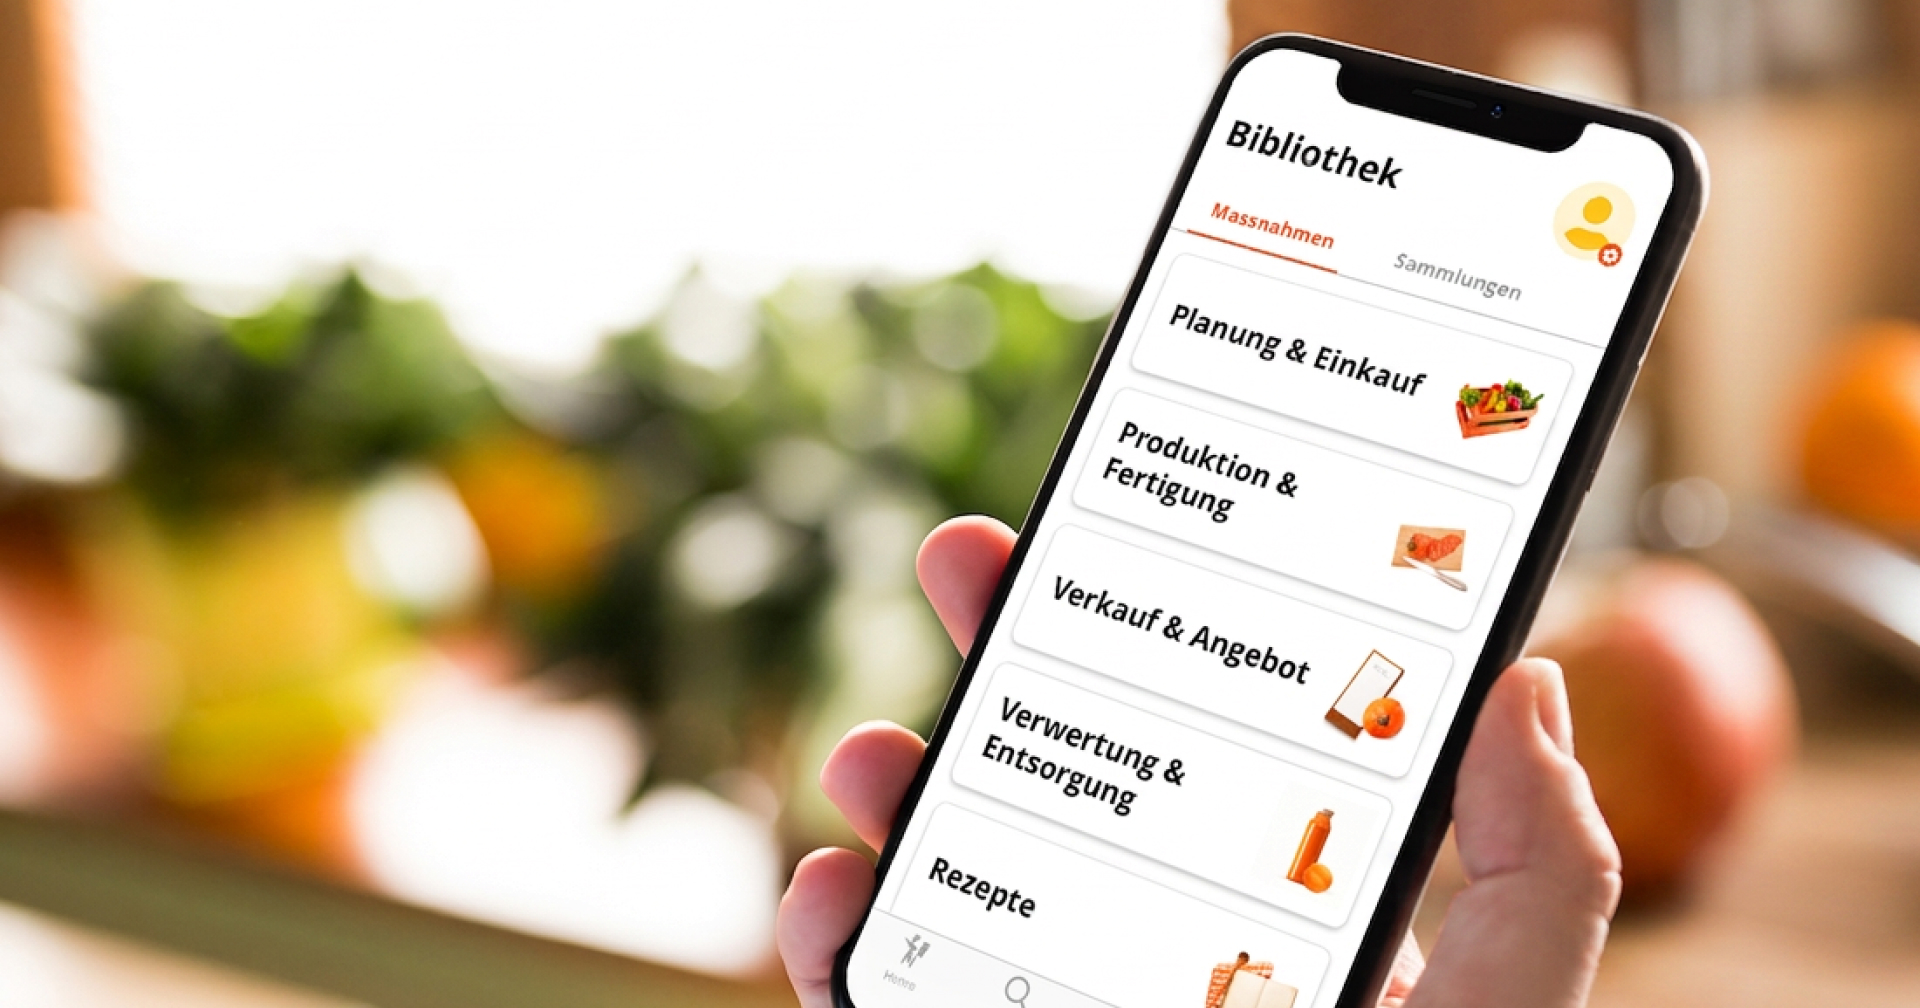
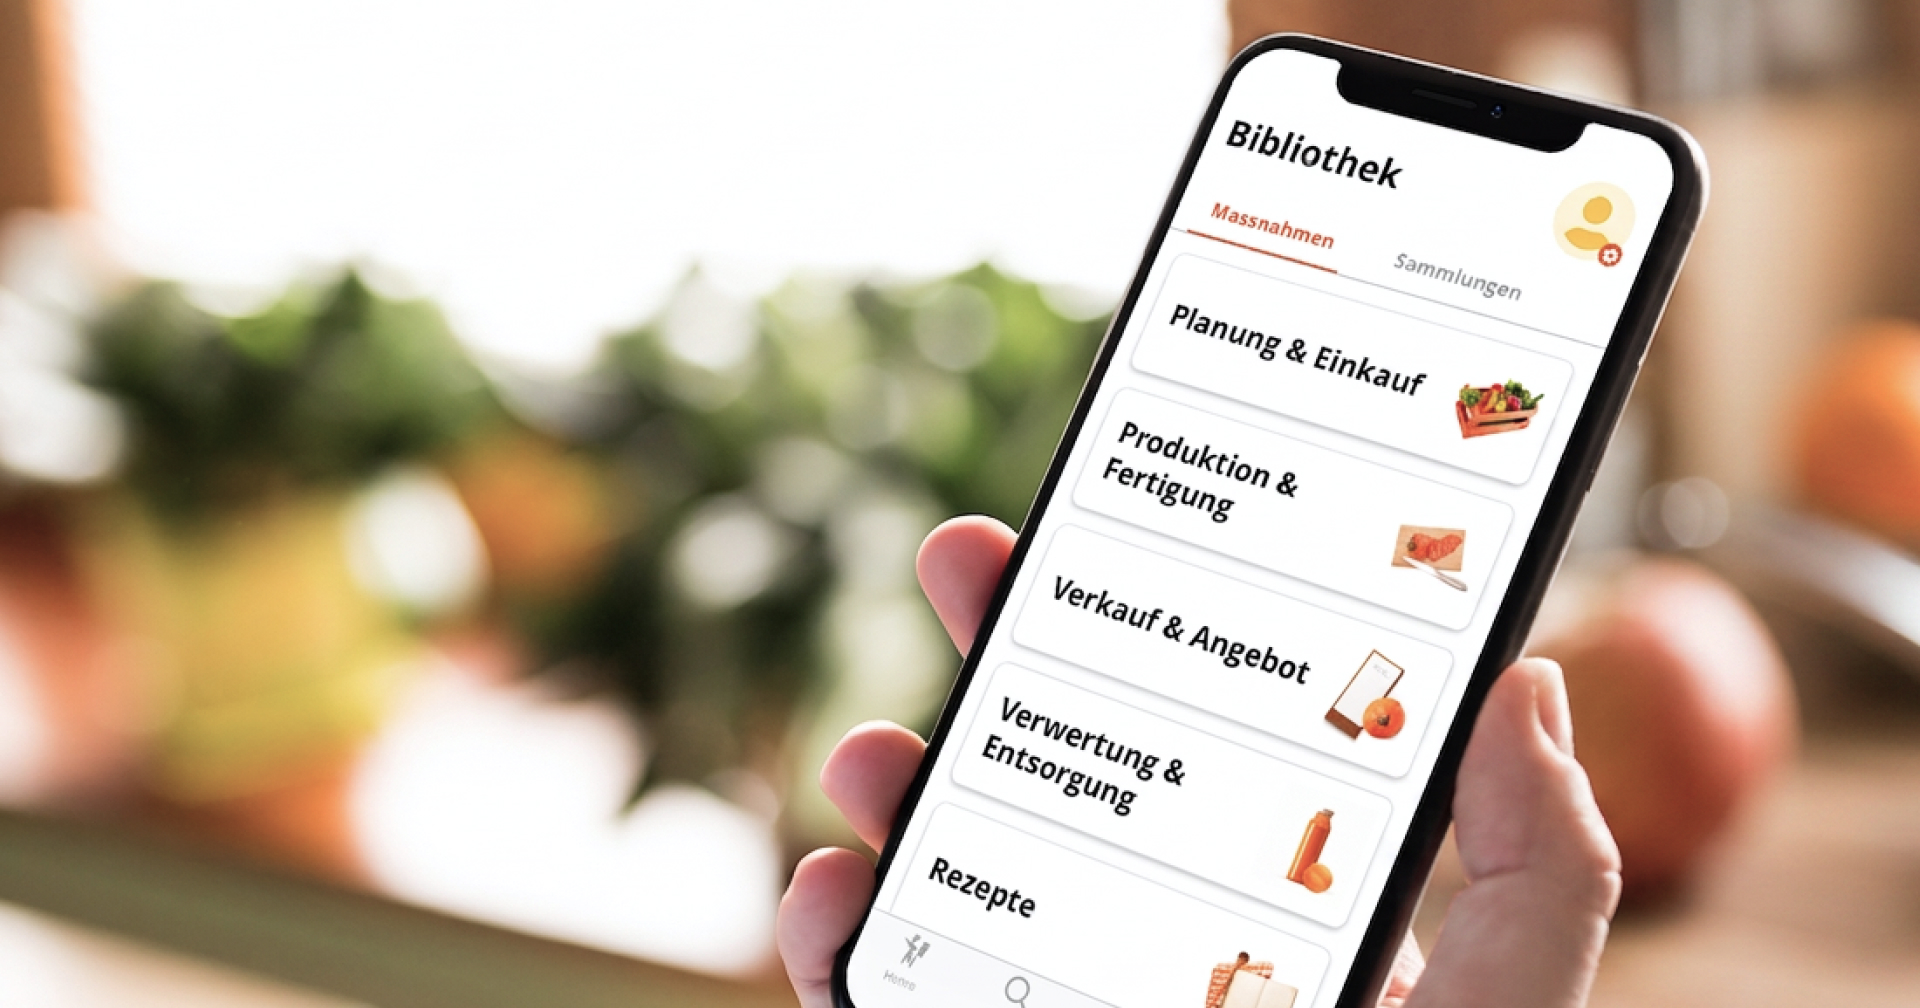
Food Save: re-export FS-00-cover
Re-exported from Figma (page "version 2", frame FS-00-cover-banner,
node 2026:597) as JPG at 1920x1008. Same framing, desaturated image.
Feeds the case header, the home and "more case studies" cards, and the
share image.

diff --git a/HANDOFF.md b/HANDOFF.md
@@ -4,6 +4,8 @@ Last updated: 2026-10-22 (session 35)
 
 **Status at session close (session 35): one commit on `main`, pushed (`48336a3`) and live on migueljss.com: a new brand paragraph closing About's "How I work", a What's new paragraph in the middle of Team Files "Beyond the product", and the Team Files "Company" heading renamed "From TOPDOX to ikuTeam".** No case study has a "Company" section anymore. A follow-up commit (`dd99992`, also live, checked with curl) added serial commas to the About paragraph. Build clean. Details in the session 35 entry below.
 
+**Then, also pushed:** the Food Save cover `FS-00-cover.jpg` re-exported from Figma (a desaturated version of the same frame); see "session 35, continued" below.
+
 **Previous status (session 34): one commit on `main`, pushed (`ae6aa16`) and live on migueljss.com: the Team Files Design execution list replaced by one paragraph, and MFW-03, MFW-04 and MFW-05 re-exported with the "Favourites" tab label.** Miguel approved the faint differences the pixel diff found outside the label boxes. Build clean. Live check with curl (not the browser, to keep Umami clean): both pages return 200, Team Files Design execution has no list markup and goes paragraph then figures, and the MyFoodways page references the new image hashes (`D-6Viy__`, `CUi-0NSz`, `Ddoncsj6`), all 12 of which return 200 with the same sizes as the local build. Details in the session 34 entry below.
 
 **Previous status (session 33): three commits on `main`, pushed (`bdb056e..aba96a1`); GitHub Pages deploys on push: the Food Save "Part of a pair" rewrite with the new FS-06 Waste Tracker figure (`d618cd3`), then copy edits to Food Save and MyFoodways (role line, Company sections removed, new Role paragraphs, Food Save Reflections).** Build clean. Details in the session 33 entries below.
@@ -13,6 +15,18 @@ Last updated: 2026-10-22 (session 35)
 **Previous status (session 32): case study header outcomes, the "active installations" copy fix, an iPhone fix for closing the zoom dialog, and a TF-05 re-export were committed straight to `main` and pushed, at Miguel's request.** GitHub Pages deploys on push. Details in the session 32 entry below.
 
 **Earlier status (session 31): [PR #10](https://github.com/Dgigiu/mj-portfolio/pull/10) (`zoom-tall-images`) merged to `main` as `1794a7d` and live on migueljss.com.** It makes the zoom dialog readable for tall figures (details below). Deploy succeeded; the live Team Files page carries the new markup, size attributes, inline script and CSS (checked with curl, not the browser, to keep the visit out of Umami). The `zoom-tall-images` branch was deleted locally and on origin after the merge. Earlier in session 29, [PR #8](https://github.com/Dgigiu/mj-portfolio/pull/8) (shared folder authentication and narrow views) and [PR #9](https://github.com/Dgigiu/mj-portfolio/pull/9) (TF renumbering) were merged and are live, and their branches deleted. Still open for Miguel: whether TF-05 and TF-06 need larger text inline (readability notes below); this PR addresses the zoomed view, not the inline one.
+
+## What changed in this session (2026-10-22, session 35, continued: Food Save cover)
+
+- **`FS-00-cover.jpg` re-exported** (1920×1008, JPG at scale 1, sRGB, 1.0 MB; Figma `RqT7cSB5meoG2VQu7ggWNo`, page "version 2", frame `FS-00-cover-banner`, node `2026:597`, via the Figma MCP's `download_assets`), overwritten in place in `src/assets/case-studies/food-save/`. The frame holds one image layer (`uaw-food-save-promo2 1`, 2206×1241, offset y −25).
+- **Diff against the previous file (from August 31):** same framing and layout; the phone UI text lines up exactly (near-zero difference on the text edges). The whole image is desaturated: mean saturation 0.295 to 0.224, mean luma 180.4 to 181.1. The change is strongest on the blurred produce in the background (oranges and yellows read more muted) and on the in-app illustrations (crate, cutting board, tomato, bottle); the white screen areas are unchanged. Read as an intentional adjustment in Figma, not a crop or export issue.
+- **Built asset hash changed** (`DP-7bZAt` to `BCVhcpjJ`), so production browsers won't serve a stale copy. No mdx or alt change (alt stays "Food Save project cover").
+- **Surfaces checked:**
+  - Case header: 960w/1440w/1920w srcset, renders at 944×496 at 1440×900.
+  - Home card: 480w/800w/1200w srcset, renders at 456×239 with the 1200w file.
+  - Share image: `og:image` is the 1200×630 webp, the full frame scaled with nothing cropped (byte-identical to the card's 1200w variant).
+  - The "More case studies" grids on Team Files and MyFoodways reference the same new files.
+  - Build clean (0/0/0, 8 pages), no console errors on the dev server.
 
 ## What changed in this session (2026-10-22, session 35: About brand paragraph, Team Files What's new and origin heading)
 
